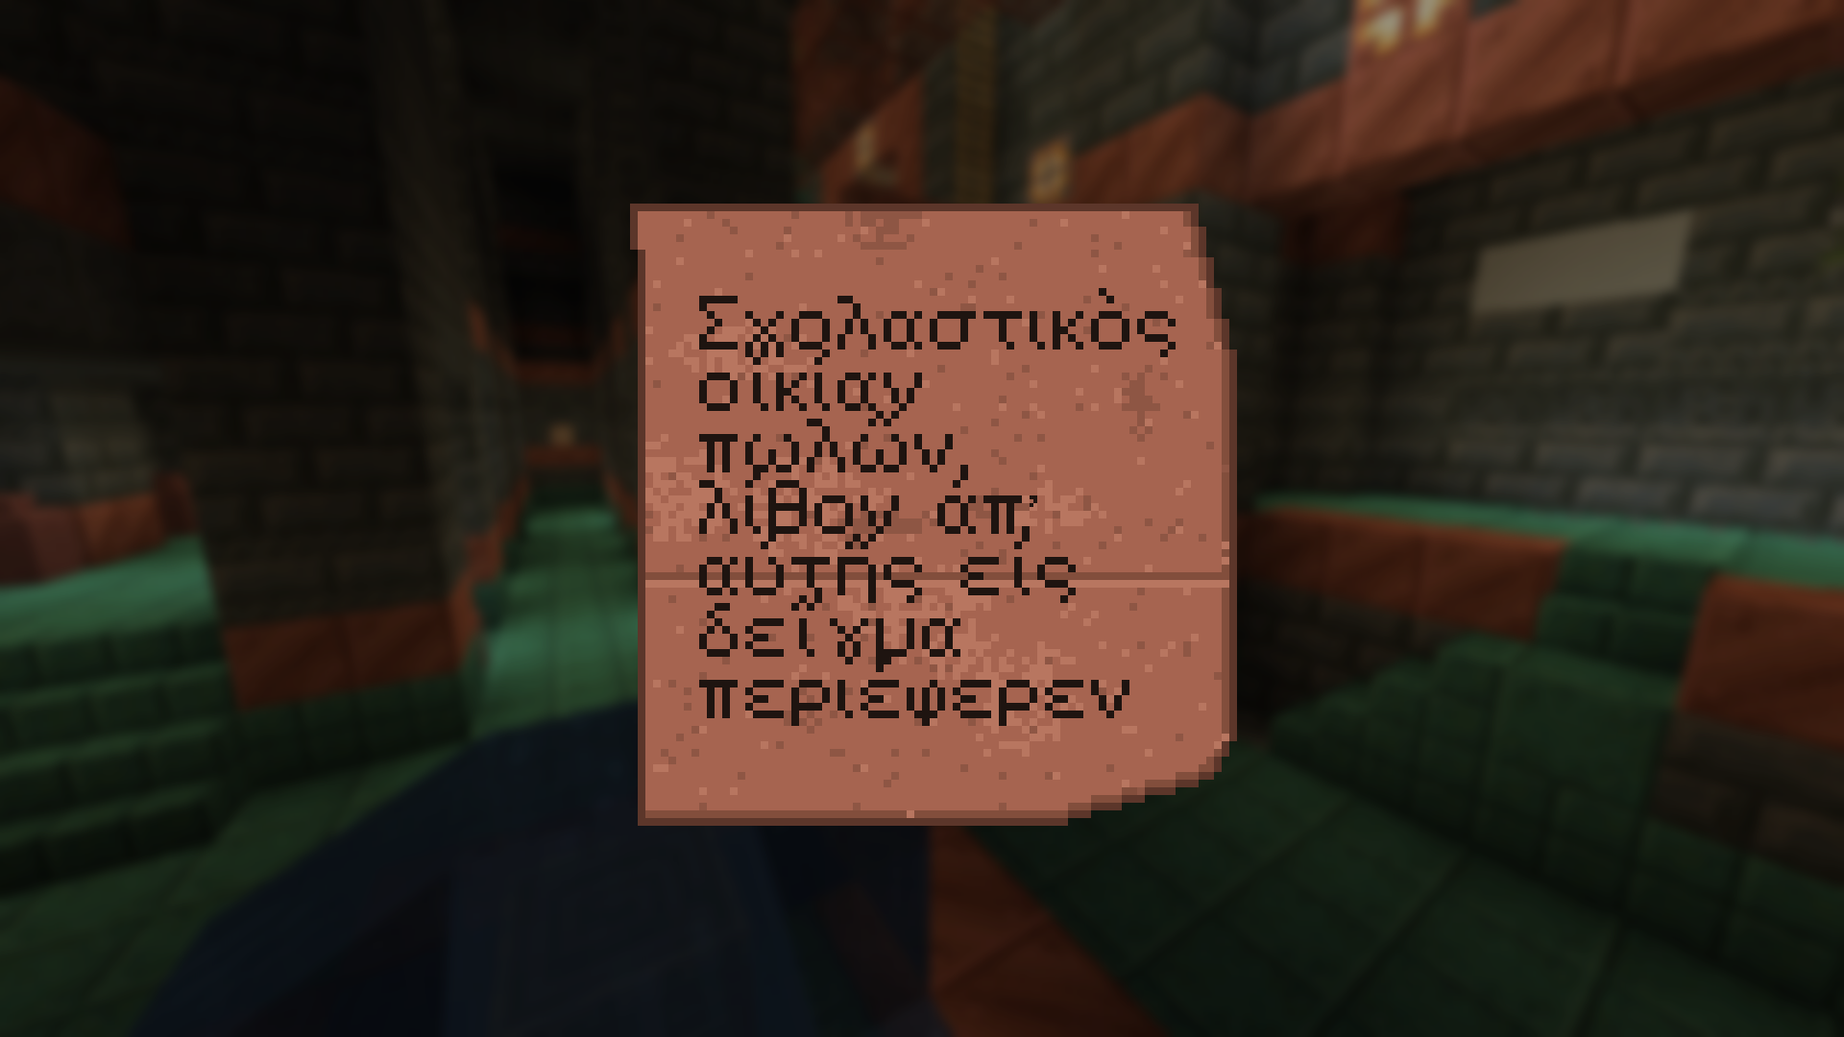
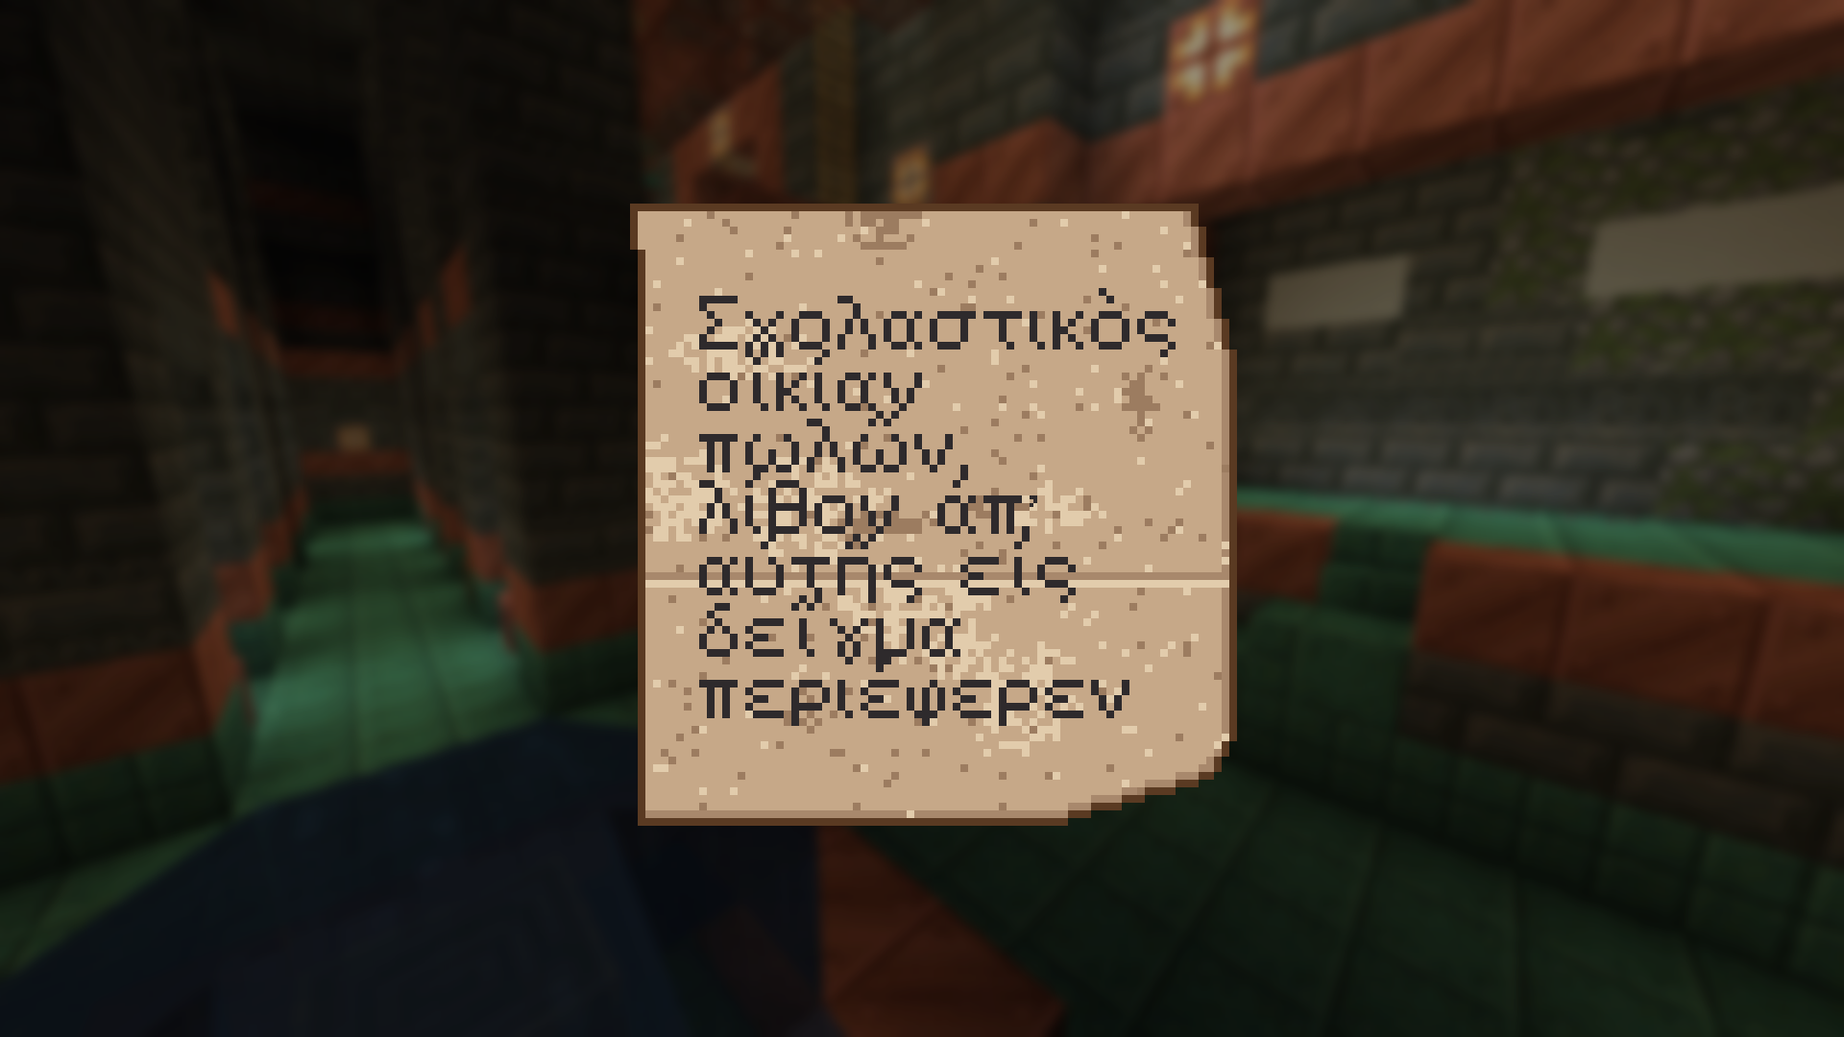
Schreiberhaus als Dorf-Haus (Ebene, Taiga, Schnee), Katakomben nur unter der Erde, Scherbenfarbe wie das Item

diff --git a/mod/src/main/java/de/scribery/DebugVillageHouse.java b/mod/src/main/java/de/scribery/DebugVillageHouse.java
@@ -1,0 +1,177 @@
+package de.scribery;
+
+import java.io.IOException;
+import java.nio.file.Files;
+import java.nio.file.Path;
+
+import net.minecraft.core.BlockPos;
+import net.minecraft.core.Direction;
+import net.minecraft.core.FrontAndTop;
+import net.minecraft.core.Vec3i;
+import net.minecraft.core.registries.Registries;
+import net.minecraft.nbt.CompoundTag;
+import net.minecraft.nbt.NbtIo;
+import net.minecraft.resources.ResourceKey;
+import net.minecraft.resources.ResourceLocation;
+import net.minecraft.server.level.ServerLevel;
+import net.minecraft.world.level.block.Block;
+import net.minecraft.world.level.block.Blocks;
+import net.minecraft.world.level.block.DoorBlock;
+import net.minecraft.world.level.block.HorizontalDirectionalBlock;
+import net.minecraft.world.level.block.JigsawBlock;
+import net.minecraft.world.level.block.RotatedPillarBlock;
+import net.minecraft.world.level.block.StairBlock;
+import net.minecraft.world.level.block.entity.JigsawBlockEntity;
+import net.minecraft.world.level.block.state.BlockState;
+import net.minecraft.world.level.block.state.properties.BedPart;
+import net.minecraft.world.level.block.state.properties.BlockStateProperties;
+import net.minecraft.world.level.block.state.properties.DoorHingeSide;
+import net.minecraft.world.level.block.state.properties.DoubleBlockHalf;
+import net.minecraft.world.level.block.state.properties.Half;
+import net.minecraft.world.level.levelgen.structure.pools.StructureTemplatePool;
+import net.minecraft.world.level.levelgen.structure.templatesystem.StructureTemplate;
+
+/**
+ * Nur zum Bauen der Dorf-Vorlage: baut das Schreiberhaus (Pult, Presse mit Lettern-Schrank, Buecherregale, Bett) im Testserver
+ * und speichert es als Jigsaw-Vorlage unter data/scribery/structure/. Aufruf: {@code -Pwgtest=house:plains|taiga|snowy}.
+ * Das Haus haengt ueber den Jigsaw "minecraft:building_entrance" an die Dorfstrasse, wie die Vanilla-Haeuser.
+ */
+final class DebugVillageHouse {
+    /** Groesse der Vorlage: Breite (x), Hoehe (y), Tiefe (z). Vorderseite (Strasse) ist z = 0, y = 0 ist der Boden der Strasse. */
+    static final Vec3i SIZE = new Vec3i(9, 10, 11);
+
+    private DebugVillageHouse() {}
+
+    /** Baustoffe je Dorftyp. */
+    record Style(String name, Block planks, Block log, Block stairs, Block slab, Block door, Block fence, String villagersPool) {
+        static Style of(String name) {
+            return switch (name) {
+                case "taiga" -> new Style(name, Blocks.SPRUCE_PLANKS, Blocks.SPRUCE_LOG, Blocks.SPRUCE_STAIRS, Blocks.SPRUCE_SLAB, Blocks.SPRUCE_DOOR,
+                        Blocks.SPRUCE_FENCE, "minecraft:village/taiga/villagers");
+                case "snowy" -> new Style(name, Blocks.SPRUCE_PLANKS, Blocks.SPRUCE_LOG, Blocks.SPRUCE_STAIRS, Blocks.SPRUCE_SLAB, Blocks.SPRUCE_DOOR,
+                        Blocks.SPRUCE_FENCE, "minecraft:village/snowy/villagers");
+                default -> new Style("plains", Blocks.OAK_PLANKS, Blocks.OAK_LOG, Blocks.OAK_STAIRS, Blocks.OAK_SLAB, Blocks.OAK_DOOR,
+                        Blocks.OAK_FENCE, "minecraft:village/plains/villagers");
+            };
+        }
+    }
+
+    private static ServerLevel level;
+    private static BlockPos o;
+
+    private static void put(int x, int y, int z, BlockState s) {
+        level.setBlock(o.offset(x, y, z), s, 2);
+    }
+
+    private static void put(int x, int y, int z, Block b) {
+        put(x, y, z, b.defaultBlockState());
+    }
+
+    private static void fill(int x1, int y1, int z1, int x2, int y2, int z2, Block b) {
+        for (int x = x1; x <= x2; x++) for (int y = y1; y <= y2; y++) for (int z = z1; z <= z2; z++) put(x, y, z, b);
+    }
+
+    private static BlockState facing(Block b, Direction d) {
+        return b.defaultBlockState().setValue(HorizontalDirectionalBlock.FACING, d);
+    }
+
+    private static BlockState stair(Block b, Direction ascending) {
+        return b.defaultBlockState().setValue(StairBlock.FACING, ascending).setValue(StairBlock.HALF, Half.BOTTOM);
+    }
+
+    /** Baut das Haus bei {@code origin} (kleinste Ecke) und speichert es als Vorlage. */
+    static void buildAndSave(ServerLevel lvl, BlockPos origin, String styleName) throws IOException {
+        level = lvl;
+        o = origin;
+        Style st = Style.of(styleName);
+        // 1. Alles ausserhalb des Hauses bleibt unberuehrt (Strukturleere), das Innere wird als Luft gesetzt
+        fill(0, 0, 0, SIZE.getX() - 1, SIZE.getY() - 1, SIZE.getZ() - 1, Blocks.STRUCTURE_VOID);
+        fill(2, 2, 3, 6, 4, 8, Blocks.AIR);                    // Innenraum
+        fill(3, 2, 1, 5, 4, 1, Blocks.AIR);                    // Vorbau
+
+        // 2. Fundament und Boden
+        fill(1, 0, 1, 7, 0, 9, Blocks.DIRT);
+        fill(2, 1, 3, 6, 1, 8, st.planks);                     // Fussboden
+        for (int x = 1; x <= 7; x++) { put(x, 1, 2, Blocks.COBBLESTONE); put(x, 1, 9, Blocks.COBBLESTONE); }
+        for (int z = 2; z <= 9; z++) { put(1, 1, z, Blocks.COBBLESTONE); put(7, 1, z, Blocks.COBBLESTONE); }
+        // 3. Waende: Planken, an den Ecken Staemme
+        for (int y = 2; y <= 4; y++) {
+            for (int x = 1; x <= 7; x++) { put(x, y, 2, st.planks); put(x, y, 9, st.planks); }
+            for (int z = 2; z <= 9; z++) { put(1, y, z, st.planks); put(7, y, z, st.planks); }
+        }
+        BlockState pillar = st.log.defaultBlockState().setValue(RotatedPillarBlock.AXIS, Direction.Axis.Y);
+        for (int y = 1; y <= 4; y++) { put(1, y, 2, pillar); put(7, y, 2, pillar); put(1, y, 9, pillar); put(7, y, 9, pillar); }
+        // 4. Fenster (Glasscheiben)
+        for (int[] w : new int[][] {{1, 4}, {1, 7}, {7, 4}, {7, 7}}) put(w[0], 3, w[1], Blocks.GLASS_PANE);
+        put(2, 3, 2, Blocks.GLASS_PANE); put(6, 3, 2, Blocks.GLASS_PANE); put(4, 3, 9, Blocks.GLASS_PANE);
+        // 5. Tuer, Stufe und Vorbau mit Laternen
+        BlockState lower = st.door.defaultBlockState().setValue(DoorBlock.FACING, Direction.NORTH).setValue(DoorBlock.HINGE, DoorHingeSide.LEFT)
+                .setValue(DoorBlock.HALF, DoubleBlockHalf.LOWER);
+        put(4, 2, 2, lower);
+        put(4, 3, 2, lower.setValue(DoorBlock.HALF, DoubleBlockHalf.UPPER));
+        put(4, 1, 1, stair(st.stairs, Direction.SOUTH));
+        put(3, 1, 1, Blocks.COBBLESTONE); put(5, 1, 1, Blocks.COBBLESTONE);
+        put(3, 2, 1, st.fence); put(5, 2, 1, st.fence);
+        put(3, 3, 1, Blocks.LANTERN); put(5, 3, 1, Blocks.LANTERN);
+        // 6. Dach: ein Giebeldach laengs, Stufen aussen, Planken innen
+        for (int z = 1; z <= 10; z++) {
+            put(0, 5, z, stair(st.stairs, Direction.EAST)); put(8, 5, z, stair(st.stairs, Direction.WEST));
+            fill(1, 5, z, 7, 5, z, st.planks);
+            put(1, 6, z, stair(st.stairs, Direction.EAST)); put(7, 6, z, stair(st.stairs, Direction.WEST));
+            fill(2, 6, z, 6, 6, z, st.planks);
+            put(2, 7, z, stair(st.stairs, Direction.EAST)); put(6, 7, z, stair(st.stairs, Direction.WEST));
+            fill(3, 7, z, 5, 7, z, st.planks);
+            put(3, 8, z, stair(st.stairs, Direction.EAST)); put(5, 8, z, stair(st.stairs, Direction.WEST));
+            put(4, 8, z, st.slab);
+        }
+        // 7. Einrichtung (Vorderseite = Norden, die Strasse)
+        put(2, 2, 7, facing(ModBlocks.SCRIBE_LECTERN.get(), Direction.EAST));             // Pult an der Westwand, Vorderseite zum Raum
+        for (int x = 2; x <= 5; x++) for (int y = 2; y <= 3; y++) put(x, y, 8, facing(ModBlocks.BOOKSHELF.get(), Direction.NORTH));   // Buecherregal an der Rueckwand
+        put(6, 2, 5, facing(ModBlocks.PRINTING_PRESS.get(), Direction.WEST));            // Presse an der Ostwand
+        put(6, 2, 4, facing(ModBlocks.LETTER_CABINET.get(), Direction.WEST));            // Lettern-Schrank daneben
+        BlockState bed = Blocks.RED_BED.defaultBlockState().setValue(HorizontalDirectionalBlock.FACING, Direction.SOUTH);
+        put(6, 2, 7, bed.setValue(BlockStateProperties.BED_PART, BedPart.FOOT));
+        put(6, 2, 8, bed.setValue(BlockStateProperties.BED_PART, BedPart.HEAD));
+        fill(3, 2, 4, 4, 2, 5, Blocks.RED_CARPET);                                        // Teppich in der Mitte
+        put(4, 4, 5, Blocks.LANTERN.defaultBlockState().setValue(BlockStateProperties.HANGING, true));
+        put(4, 4, 8, Blocks.WHITE_CANDLE.defaultBlockState().setValue(BlockStateProperties.LIT, true));
+        put(2, 2, 3, Blocks.BARREL);
+        put(6, 2, 3, Blocks.POTTED_CORNFLOWER);
+        // 8. Jigsaws: Eingang zur Strasse und der Platz fuer einen Dorfbewohner
+        jigsaw(4, 1, 0, FrontAndTop.NORTH_UP, "minecraft:building_entrance", "minecraft:building_entrance", "minecraft:empty",
+                "minecraft:structure_void", JigsawBlockEntity.JointType.ALIGNED);
+        jigsaw(4, 1, 6, FrontAndTop.UP_NORTH, "minecraft:bottom", "minecraft:bottom", st.villagersPool,
+                BuiltInName.of(st.planks), JigsawBlockEntity.JointType.ROLLABLE);
+
+        // 9. Speichern
+        StructureTemplate t = new StructureTemplate();
+        t.fillFromWorld(level, origin, SIZE, false, Blocks.STRUCTURE_VOID);
+        t.setAuthor("scribery");
+        CompoundTag tag = t.save(new CompoundTag());
+        Path p = Path.of(System.getProperty("user.dir")).resolve("../mod/src/main/resources/data/scribery/structure/village_scribe_house_" + st.name + ".nbt").normalize();
+        Files.createDirectories(p.getParent());
+        NbtIo.writeCompressed(tag, p);
+    }
+
+    /** "minecraft:oak_planks" fuer einen Block. */
+    private static final class BuiltInName {
+        static String of(Block b) {
+            return net.minecraft.core.registries.BuiltInRegistries.BLOCK.getKey(b).toString();
+        }
+    }
+
+    private static void jigsaw(int x, int y, int z, FrontAndTop orientation, String name, String target, String pool, String finalState,
+            JigsawBlockEntity.JointType joint) {
+        put(x, y, z, Blocks.JIGSAW.defaultBlockState().setValue(JigsawBlock.ORIENTATION, orientation));
+        if (level.getBlockEntity(o.offset(x, y, z)) instanceof JigsawBlockEntity be) {
+            be.setName(ResourceLocation.parse(name));
+            be.setTarget(ResourceLocation.parse(target));
+            be.setPool(ResourceKey.create(Registries.TEMPLATE_POOL, ResourceLocation.parse(pool)));
+            be.setFinalState(finalState);
+            be.setJoint(joint);
+            be.setChanged();
+        }
+    }
+
+    private static void unused(StructureTemplatePool p) {}
+}

diff --git a/mod/src/main/java/de/scribery/VillageInjection.java b/mod/src/main/java/de/scribery/VillageInjection.java
@@ -1,0 +1,64 @@
+package de.scribery;
+
+import java.lang.reflect.Field;
+import java.util.ArrayList;
+import java.util.List;
+
+import com.mojang.datafixers.util.Pair;
+
+import it.unimi.dsi.fastutil.objects.ObjectArrayList;
+import net.minecraft.core.Registry;
+import net.minecraft.core.registries.Registries;
+import net.minecraft.resources.ResourceLocation;
+import net.minecraft.world.level.levelgen.structure.pools.StructurePoolElement;
+import net.minecraft.world.level.levelgen.structure.pools.StructureTemplatePool;
+import net.neoforged.bus.api.SubscribeEvent;
+import net.neoforged.fml.common.EventBusSubscriber;
+import net.neoforged.fml.util.ObfuscationReflectionHelper;
+import net.neoforged.neoforge.event.server.ServerAboutToStartEvent;
+import org.slf4j.Logger;
+import org.slf4j.LoggerFactory;
+
+/**
+ * Haengt das Schreiberhaus (Pult, Presse, Buecherregale) an die Haeuser der Dorftypen Ebene, Taiga und Schnee an.
+ * Wueste und Savanne (Akazien) bekommen es nicht. Die Vorlagen liegen unter data/scribery/structure/village_scribe_house_*.nbt
+ * (gebaut von DebugVillageHouse); eingehaengt wird beim Serverstart in den bestehenden Pool, damit andere Mods ihre Eintraege behalten.
+ */
+@EventBusSubscriber(modid = Scribery.MODID)
+public final class VillageInjection {
+    private static final Logger LOG = LoggerFactory.getLogger("scribery-village");
+    /** Gewicht im Haeuser-Pool (die Vanilla-Haeuser wiegen zusammen etwa 40 bis 60): so kommt etwa ein Haus je Dorf vor. */
+    static final int WEIGHT = 4;
+
+    private VillageInjection() {}
+
+    @SubscribeEvent
+    static void onServerAboutToStart(ServerAboutToStartEvent event) {
+        Registry<StructureTemplatePool> pools = event.getServer().registryAccess().registryOrThrow(Registries.TEMPLATE_POOL);
+        inject(pools, "minecraft:village/plains/houses", "scribery:village_scribe_house_plains");
+        inject(pools, "minecraft:village/taiga/houses", "scribery:village_scribe_house_taiga");
+        inject(pools, "minecraft:village/snowy/houses", "scribery:village_scribe_house_snowy");
+    }
+
+    @SuppressWarnings("unchecked")
+    private static void inject(Registry<StructureTemplatePool> pools, String pool, String template) {
+        StructureTemplatePool target = pools.get(ResourceLocation.parse(pool));
+        if (target == null) {
+            LOG.warn("Dorf-Pool {} nicht gefunden, {} wird nicht eingehaengt", pool, template);
+            return;
+        }
+        try {
+            StructurePoolElement element = StructurePoolElement.legacy(template).apply(StructureTemplatePool.Projection.RIGID);
+            Field rawF = ObfuscationReflectionHelper.findField(StructureTemplatePool.class, "rawTemplates");
+            Field tplF = ObfuscationReflectionHelper.findField(StructureTemplatePool.class, "templates");
+            List<Pair<StructurePoolElement, Integer>> raw = new ArrayList<>((List<Pair<StructurePoolElement, Integer>>) rawF.get(target));
+            raw.add(Pair.of(element, WEIGHT));
+            rawF.set(target, raw);
+            ObjectArrayList<StructurePoolElement> templates = (ObjectArrayList<StructurePoolElement>) tplF.get(target);
+            for (int i = 0; i < WEIGHT; i++) templates.add(element);
+            LOG.info("{} in {} eingehaengt (Gewicht {})", template, pool, WEIGHT);
+        } catch (ReflectiveOperationException | RuntimeException e) {
+            LOG.error("Konnte {} nicht in {} einhaengen", template, pool, e);
+        }
+    }
+}

diff --git a/mod/src/main/java/de/scribery/WorldgenTest.java b/mod/src/main/java/de/scribery/WorldgenTest.java
@@ -43,6 +43,38 @@ public final class WorldgenTest {
                 }
             }
             int y = level.getHeight(Heightmap.Types.WORLD_SURFACE, x, z);
+            if (id.trim().startsWith("jigsaw:")) {   // Pool-Test: viele einzelne Haeuser aus einem Dorf-Pool setzen und zaehlen, wie oft unser Haus vorkommt
+                String pool = id.trim().substring(7);
+                int withHouse = 0, total = 40;
+                for (int n = 0; n < total; n++) {
+                    int px = 3000 + n * 48, pz = 3000 + i * 100;
+                    for (int cx = (px >> 4) - 2; cx <= (px >> 4) + 3; cx++) for (int cz = (pz >> 4) - 2; cz <= (pz >> 4) + 3; cz++) {
+                        level.getChunk(cx, cz, net.minecraft.world.level.chunk.status.ChunkStatus.FULL, true);
+                    }
+                    int py = level.getHeight(Heightmap.Types.WORLD_SURFACE, px, pz);
+                    try {
+                        server.getCommands().getDispatcher().execute("place jigsaw " + pool + " minecraft:building_entrance 1 " + px + " " + py + " " + pz, src);
+                    } catch (com.mojang.brigadier.exceptions.CommandSyntaxException ex) {
+                        continue;
+                    }
+                    boolean found = false;
+                    for (int dx = -12; dx <= 12 && !found; dx++) for (int dz = -12; dz <= 12 && !found; dz++) for (int dy = -2; dy <= 8 && !found; dy++) {
+                        if (level.getBlockState(new BlockPos(px + dx, py + dy, pz + dz)).is(ModBlocks.SCRIBE_LECTERN.get())) found = true;
+                    }
+                    if (found) withHouse++;
+                }
+                LOG.info("[wgtest] Pool {}: {} von {} Haeusern waren das Schreiberhaus", pool, withHouse, total);
+                continue;
+            }
+            if (id.trim().startsWith("house:")) {   // Schreiberhaus bauen und als Dorf-Vorlage speichern (siehe DebugVillageHouse)
+                try {
+                    DebugVillageHouse.buildAndSave(level, new BlockPos(x, y + 40, z), id.trim().substring(6));
+                    LOG.info("[wgtest] Schreiberhaus {} gespeichert", id.trim().substring(6));
+                } catch (java.io.IOException | RuntimeException ex) {
+                    LOG.error("[wgtest] Schreiberhaus fehlgeschlagen", ex);
+                }
+                continue;
+            }
             if (id.trim().startsWith("dump:")) {   // Vorlage in die Welt setzen und Schichten als Text ausgeben (nur zum Untersuchen)
                 var tpl = server.getStructureManager().get(net.minecraft.resources.ResourceLocation.parse(id.trim().substring(5)));
                 if (tpl.isEmpty()) { LOG.info("[wgtest] Vorlage fehlt"); continue; }

diff --git a/mod/src/main/java/de/scribery/ScriberyStructure.java b/mod/src/main/java/de/scribery/ScriberyStructure.java
@@ -64,6 +64,21 @@ public class ScriberyStructure extends Structure {
             return Optional.empty();                                               // nur an Land, nicht im Wasser
         }
         Direction facing = Direction.Plane.HORIZONTAL.getRandomDirection(ctx.random());
+        if (kind == Kind.CATACOMB || kind == Kind.CATACOMB_DESERT || kind == Kind.HOUSE_SAND || kind == Kind.HOUSE_MUD) {
+            // Nur unter der Erde: Das Gelaende ueber den Raeumen darf nirgends tiefer liegen als am Eingang (hoechstens 1 Block),
+            // sonst ragt die Decke an einem Hang aus dem Boden. Geprueft wird ueber die ganze Grundflaeche, nicht nur am Eingang.
+            boolean catacomb = kind == Kind.CATACOMB || kind == Kind.CATACOMB_DESERT;
+            int reach = catacomb ? 46 : 22, side = catacomb ? 16 : 12;
+            Direction right = facing.getClockWise();
+            for (int u = 0; u <= reach; u += 6) {
+                for (int v = -side; v <= side; v += side / 2) {
+                    int sx = x + facing.getStepX() * u + right.getStepX() * v, sz = z + facing.getStepZ() * u + right.getStepZ() * v;
+                    int top = ctx.chunkGenerator().getFirstOccupiedHeight(sx, sz, Heightmap.Types.WORLD_SURFACE_WG, ctx.heightAccessor(), ctx.randomState());
+                    int bottom = ctx.chunkGenerator().getFirstOccupiedHeight(sx, sz, Heightmap.Types.OCEAN_FLOOR_WG, ctx.heightAccessor(), ctx.randomState());
+                    if (top != bottom || top < floor - 1) return Optional.empty();   // Wasser darueber oder Gelaende faellt ab
+                }
+            }
+        }
         BlockPos origin = new BlockPos(x, floor - 1, z);                           // der oberste feste Block
         int r = kind.radius;
         BoundingBox box = new BoundingBox(x - r, Math.max(ctx.heightAccessor().getMinBuildHeight(), floor - 34), z - r,

diff --git a/mod/src/main/java/de/scribery/client/RaggedPaper.java b/mod/src/main/java/de/scribery/client/RaggedPaper.java
@@ -26,7 +26,7 @@ final class RaggedPaper {
         {0xFF5A4630, 0xFF8E7A52, 0xFFB09A68, 0xFFCDB985, 0xFF3E3228, 0xFF7F917C},   // wasser: Sonder = Wasserrand
         {0xFF6B5638, 0xFFB89E6E, 0xFFDCCB9B, 0xFFEBDDB4, 0xFF8E7D66, 0xFF000000},   // verblasst: blasse Tinte
         {0xFF3C5F8E, 0xFF7FA6CE, 0xFFA8C8E4, 0xFFBFD9EE, 0xFF22395A, 0xFFEAF6FF},   // gefroren: Sonder = Frost
-        {0xFF54322A, 0xFF774837, 0xFFAD6C56, 0xFF98604A, 0xFF1E1410, 0xFF84503E},   // Scherbe (Ostrakon): Terrakotta wie auf Fotos echter Ostraka, Sonder = dunklere Koernung
+        {0xFF5A3A22, 0xFFA8886C, 0xFFE2CCAC, 0xFFC6A888, 0xFF2E2A2C, 0xFF9C7C60},   // Scherbe (Ostrakon): dieselben Tonfarben wie die Item-Textur (textures/item/ostrakon.png)
     };
 
     private static final int SHERD_PAD = 8;

diff --git a/docs/DESIGN-VILLAGER.md b/docs/DESIGN-VILLAGER.md
@@ -79,3 +79,5 @@ Ein Vanilla-Handel hat ein festes Ergebnis, kein Zufalls- oder Auswahlergebnis.
 **Nachtrag:** Das Forms & Grammar Lexicon ist jetzt geschrieben (`tools/gen_forms_lexicon.py`, Daten: Wortformen mit Robinson-Code aus den Manuskriptdaten) und steht wieder auf Stufe 3. Das Complete Greek Lexicon enthaelt es als Teil 3.
 
 **Ostraka zum Uebersetzen (19.11.2026):** 30 echte Philogelos-Witze (Griechisch aus dem Eulogikon-Korpus, englische Fassungen eigen) liegen als Scherben vor. Ein Ostrakon laesst sich wie ein Manuskript auf das Pult legen und an Presse und Uebersetzungstisch bearbeiten (Index ab `Manuscripts.OSTRAKA_BASE`, Glossen von Hand in `tools/ostraka_glosses.py`, erzeugt von `tools/build_ostraka.py` nach `tools/data/ostraka.json`). Uebersetzte Ostraka-Boegen lassen sich nicht im Archiv ablegen. Schleichen + Rechtsklick auf den Scherben zeigt die Loesung.
+
+**Schreiberhaus im Dorf (19.11.2026, V2 gebaut):** Ein fertiges Haus (9x10x11) mit Pult, Presse mit Lettern-Schrank daneben (die Presse liegt weit vom Pult, damit beide getrennte Stationen bleiben), vier Buecherregalen in zwei Lagen, Bett, Teppich, Laternen und Kerze. Es haengt ueber den Jigsaw `minecraft:building_entrance` an die Dorfstrasse und hat einen Dorfbewohner-Platz (`minecraft:bottom`). Vorlagen: `data/scribery/structure/village_scribe_house_{plains,taiga,snowy}.nbt` (gebaut von `DebugVillageHouse`, Aufruf `-Pwgtest=house:plains` usw.). `VillageInjection` haengt sie beim Serverstart mit Gewicht 4 in die Haeuser-Pools der Doerfer Ebene, Taiga und Schnee; Wueste und Savanne (Akazien) bekommen es nicht. Pool-Test: `-Pwgtest=jigsaw:minecraft:village/plains/houses` (etwa 2 bis 4 von 40 gesetzten Haeusern sind das Schreiberhaus).

diff --git a/docs/DESIGN-STRUCTURES.md b/docs/DESIGN-STRUCTURES.md
@@ -95,3 +95,6 @@ Für das Eisbiom keine Katakombe, sondern die Spur eines Wanderers, der unterweg
 - ein paar Ostraka oder Papyrusfetzen im Schnee, Fußspuren (Schneeschichten),
 - Steinhaufen (Cairn) als Wegmarke.
 Das lässt sich mit der **eingefrorenen Karawane** verbinden: die Karawane ist die große Version, der Wanderer die kleine, häufige.
+
+
+**Nur unter der Erde (19.11.2026):** Katakomben und die unterirdischen Haeuser (Sand, Schlamm) werden nur gesetzt, wenn das Gelaende ueber der ganzen Grundflaeche (Katakombe 46 Bloecke tief und 16 breit, Haus 22 und 12) nirgends mehr als 1 Block unter dem Eingang liegt und kein Wasser darueber steht. Vorher ragte die Decke an Haengen aus dem Boden.
